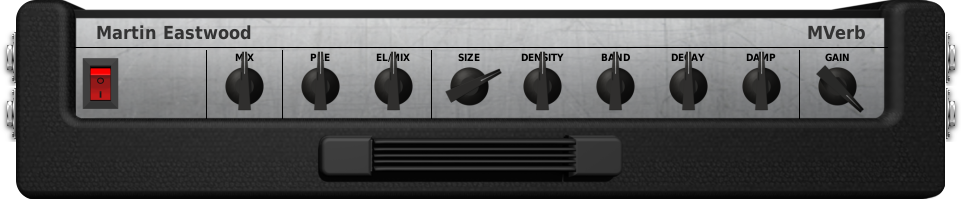
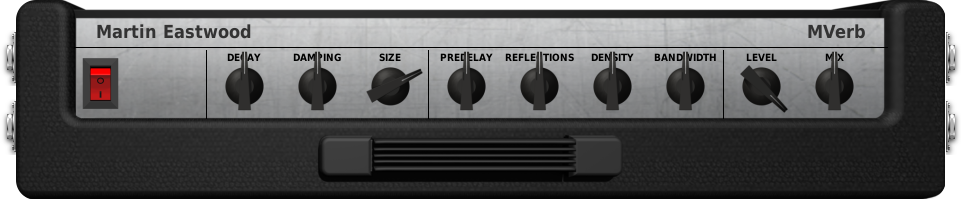
Mverb screenshots and seperators changed

diff --git a/ttlfiles-fixed/MVerb.lv2/modgui/icon-mverb.html b/ttlfiles-fixed/MVerb.lv2/modgui/icon-mverb.html
@@ -13,7 +13,6 @@
             <span class="mod-chicken-head-title">{{name}}</span>
         </div>
         {{/controls.0}}
-        <div class="mod-separator"></div>
         {{#controls.1}}
         <div class="mod-chicken-head">
             <div class="mod-chicken-head-image" mod-role="input-control-port" mod-port-symbol="{{symbol}}"></div>
@@ -51,13 +50,13 @@
             <span class="mod-chicken-head-title">{{name}}</span>
         </div>
         {{/controls.6}}
+        <div class="mod-separator"></div>
         {{#controls.7}}
         <div class="mod-chicken-head">
             <div class="mod-chicken-head-image" mod-role="input-control-port" mod-port-symbol="{{symbol}}"></div>
             <span class="mod-chicken-head-title">{{name}}</span>
         </div>
         {{/controls.7}}
-        <div class="mod-separator"></div>
         {{#controls.8}}
         <div class="mod-chicken-head">
             <div class="mod-chicken-head-image" mod-role="input-control-port" mod-port-symbol="{{symbol}}"></div>
@@ -76,6 +75,11 @@
             <div class="mod-pedal-input-image"></div>
         </div>
         {{/effect.ports.midi.input}}
+        {{#effect.ports.cv.input}}
+        <div class="mod-input mod-input-disconnected" title="{{name}}" mod-role="input-cv-port" mod-port-symbol="{{symbol}}">
+            <div class="mod-pedal-input-image"></div>
+        </div>
+        {{/effect.ports.cv.input}}
     </div>
     <div class="mod-pedal-output">
         {{#effect.ports.audio.output}}
@@ -88,5 +92,10 @@
             <div class="mod-pedal-output-image"></div>
         </div>
         {{/effect.ports.midi.output}}
+        {{#effect.ports.cv.output}}
+        <div class="mod-output mod-output-disconnected" title="{{name}}" mod-role="output-cv-port" mod-port-symbol="{{symbol}}">
+            <div class="mod-pedal-output-image"></div>
+        </div>
+        {{/effect.ports.cv.output}}
     </div>
 </div>
